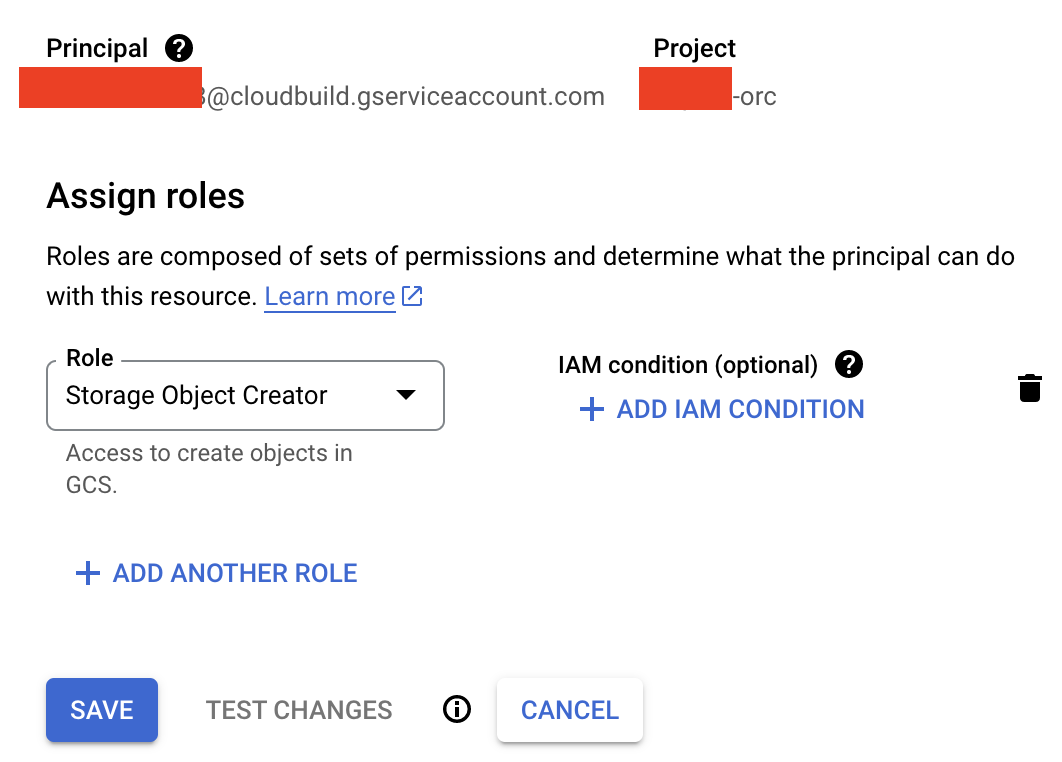
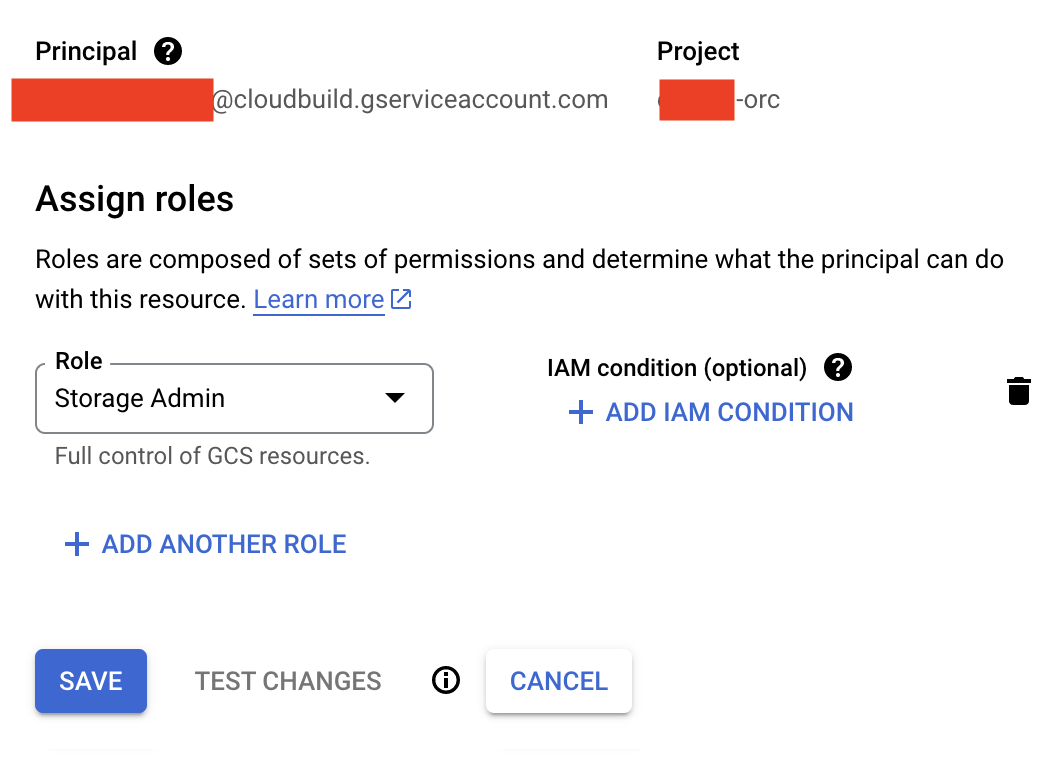
Permissions and scheduling changes

diff --git a/3-connector-rest-apis/dags/bq_load.py b/3-connector-rest-apis/dags/bq_load.py
@@ -50,7 +50,7 @@ yesterday = datetime.datetime.combine(
     datetime.datetime.min.time())
 
 with DAG('bq_load',
-         schedule_interval='*/30 * * * *',
+         schedule_interval='30 2 * * *',
          start_date=yesterday,
          template_searchpath=['/home/airflow/gcs/data'],
          catchup=False) as dag:

diff --git a/2-connector-moodle/dags/moodle_pipeline.py b/2-connector-moodle/dags/moodle_pipeline.py
@@ -185,7 +185,7 @@ max_tasks = int(config_file.get('max_df_instance'))
 
 with DAG(
     dag_id="moodle_pipeline",
-    schedule_interval='@daily',
+    schedule_interval='0 2 * * *',
     start_date=yesterday,
     max_active_tasks=max_tasks,
     catchup=False,

diff --git a/3-connector-rest-apis/dags/API_pipeline.py b/3-connector-rest-apis/dags/API_pipeline.py
@@ -76,7 +76,7 @@ clean_data = json.loads(read_output)
 
 with DAG(
         dag_id="API_pipeline",
-        schedule_interval='@daily',
+        schedule_interval='0 2 * * *',
         start_date=yesterday,
         catchup=False,
 ) as dag:

diff --git a/2-connector-moodle/README.md b/2-connector-moodle/README.md
@@ -139,4 +139,4 @@ You can keep the default values for the following variables or customize them ac
 
 As soon as you push the changes of these variables to your EDP repository in GitHub, the trigger configured in Cloud Build for Load Pipeline is going to run and deploy all the artifacts needed to run the Moodle connector pipelines.
 
-At this point, there is no changes to apply in the orchestration artifacts. So, to deploy them you must run the trigger created on Orchestration project manually. However, anytime changes for Orchestration artifacts are pushed in the EDP Repo, Cloud Build in the orc project is going to be triggerd automatically. 
+At this point, there are no changes to apply in the orchestration artifacts. So, to deploy them you must run the trigger created on Orchestration project manually. However, anytime changes for Orchestration artifacts are pushed in the EDP Repo, Cloud Build in the orc project is going to be triggerd automatically. 

diff --git a/3-connector-rest-apis/README.md b/3-connector-rest-apis/README.md
@@ -85,7 +85,7 @@ You are going to use the above information to create a trigger in Drop-off proje
 
   ![Create Trigger](docs/img/create-trigger-10.png)
 
-15.  Click in **GRANT ACCESS** inform the Service Account email in 'New principals' and select the Role '**Storage Object Creator(roles/storage.objectCreator)**'
+15.  Click in **GRANT ACCESS** inform the Service Account email in 'New principals' and select the Role '**Storage Admin(roles/storage.admin)**'
 
 <p align="left">
     <img src="docs/img/create-trigger-10-a.png" width="500" height="350">
